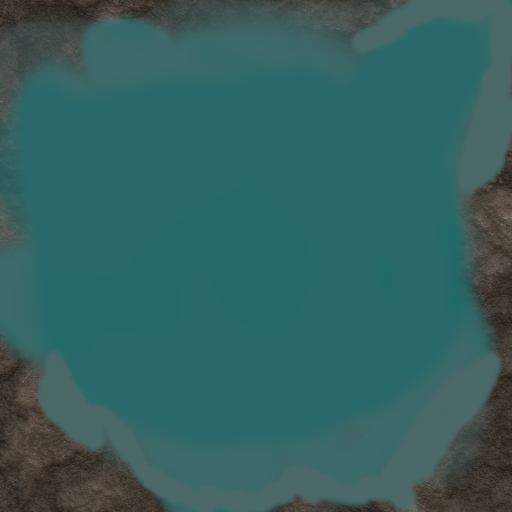
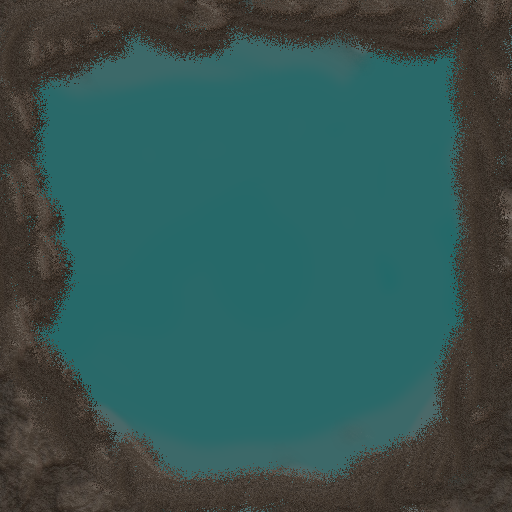
Add water obstacles and combat background

Changed region(s): [[0.0, 0.0, 1.0, 1.0], [0.1875, 0.9375, 0.2188, 0.9688]]

diff --git a/BattlePath/wwwroot/js/explore.js b/BattlePath/wwwroot/js/explore.js
@@ -2,7 +2,10 @@
     tile: null,
     playerImg: null,
     enemyImg: null,
+    exitImg: null,
+    waterImg: null,
     ready: false,
+
 
     init: function () {
         if (this.ready) return;
@@ -19,14 +22,18 @@
         this.enemyImg = new Image();
         this.enemyImg.src = 'images/goblin.png';
 
-        //exit Cave sprite
+        //exit tile sprite
         this.exitImg = new Image();
         this.exitImg.src = 'images/caveTileExit.png';
+
+        //water tile img
+        this.waterImg = new Image();
+        this.waterImg.src = 'images/caveWaterTile.png'
 
         this.ready = true;
     },
 
-    drawScene: function (playerX, playerY, enemies, exit, width, height) {
+    drawScene: function (playerX, playerY, enemies, waters, exit, width, height) {
         const canvas = document.getElementById('exploreCanvas');
         if (!canvas) return;
         const ctx = canvas.getContext('2d');
@@ -39,8 +46,22 @@
             //draw cave tiles
             for (let x = 0; x < width; x++) {
                 for (let y = 0; y < height; y++) {
+
                     ctx.drawImage(this.tile, x * cellW, y * cellH, cellW, cellH);
                 }
+            }
+
+            //draw water tiles
+            if (waters && waters.length > 0) {
+                waters.forEach(w => {
+                    const wx = w.X ?? w.x;
+                    const wy = w.Y ?? w.y;
+                    if (this.waterImg.complete) {
+                        ctx.drawImage(this.waterImg, wx * cellW, wy * cellH, cellW, cellH);
+                    } else {
+                        this.waterImg.onload = () => ctx.drawImage(this.waterImg, wx * cellW, wy * cellH, cellW, cellH);
+                    }
+                });
             }
 
             //draw exit image

diff --git a/BattlePath/wwwroot/js/combat.js b/BattlePath/wwwroot/js/combat.js
@@ -1,6 +1,7 @@
 window.combatCanvas = {
     playerImg: null,
     enemyImg: null,
+    backImg: null,
     init: function () {
         if (!this.playerImg) {
             this.playerImg = new Image();
@@ -10,14 +11,20 @@
             this.enemyImg = new Image();
             this.enemyImg.src = 'images/goblin.png'; //enemy sprite
         }
+        if (!this.backImg) {
+            this.backImg = new Image();
+            this.backImg.src = 'images/caveback.jpg';//background img
+        }
     },
 
     drawCombat: function () {
         const canvas = document.getElementById('combatCanvas');
         if (!canvas) return;
         const ctx = canvas.getContext('2d');
-        ctx.clearRect(0, 0, canvas.width, canvas.height);
 
+        if (this.backImg.complete) {
+            ctx.drawImage(this.backImg, 0, 0, canvas.width, canvas.height);
+        }
         //draw player on left
         if (this.playerImg.complete)
             ctx.drawImage(this.playerImg, 50, 100, 80, 80);

diff --git a/BattlePath/Services/GameStateService.cs b/BattlePath/Services/GameStateService.cs
@@ -17,7 +17,7 @@ namespace BattlePath.Services
 
         public List<Position> Enemies { get; set; } = new();
 
-        public List<Position> Holes { get; set; } = new();
+        public List<Position> Waters { get; set; } = new();
         public Position Exit { get; set; }
 
         private Random rng = new Random();
@@ -33,6 +33,7 @@ namespace BattlePath.Services
             PlayerX = 0;
             PlayerY = 0;
             Enemies.Clear();
+            Waters.Clear();
 
             //place enemies randomly
             while (Enemies.Count < numEnemies)
@@ -44,6 +45,18 @@ namespace BattlePath.Services
                     !Enemies.Any(e => e.X == ex && e.Y == ey))
                 {
                     Enemies.Add(new Position { X = ex, Y = ey });
+                }
+            }
+            //place water randomly
+            while (Waters.Count < 7)
+            {
+                int wx = rng.Next(GridWidth);
+                int wy = rng.Next(GridHeight);
+
+                if ((wx != PlayerX || wy != PlayerY) &&
+                    !Waters.Any(w => w.X == wx && w.Y == wy) && !Enemies.Any(e => e.X == wx && e.Y == wy))
+                {
+                    Waters.Add(new Position { X = wx, Y = wy });
                 }
             }
 
@@ -63,7 +76,7 @@ namespace BattlePath.Services
         public bool MovePlayer(int dx, int dy)
         {
             MoveEnemies();
-
+ 
             int nx = PlayerX + dx;
             int ny = PlayerY + dy;
 
@@ -94,7 +107,7 @@ namespace BattlePath.Services
                     if (e.Y < PlayerY)
                     {
                         test.X = e.X; test.Y = e.Y+ 1;
-                        if (IsEnemyHere(test) || IsExitHere(test) || IsPlayerHere(test)) return;
+                        if (IsEnemyHere(test) || IsExitHere(test) || IsPlayerHere(test) || IsWaterHere(test)) return;
                         e.Y++;
                     }
                     else if (e.Y == PlayerY) 
@@ -102,19 +115,19 @@ namespace BattlePath.Services
                         if(e.X < PlayerX)
                         {
                             test.X = e.X + 1; test.Y = e.Y;
-                            if (IsEnemyHere(test) || IsExitHere(test) || IsPlayerHere(test)) return;
+                            if (IsEnemyHere(test) || IsExitHere(test) || IsPlayerHere(test) || IsWaterHere(test)) return;
                             e.X++;
                         }else
                         {
                             test.X = e.X - 1; test.Y = e.Y;
-                            if (IsEnemyHere(test) || IsExitHere(test) || IsPlayerHere(test)) return;
+                            if (IsEnemyHere(test) || IsExitHere(test) || IsPlayerHere(test) || IsWaterHere(test)) return;
                             e.X--;
                         }
                     }
                     else
                     {
                         test.X = e.X; test.Y = e.Y - 1;
-                        if (IsEnemyHere(test) || IsExitHere(test) || IsPlayerHere(test)) return;
+                        if (IsEnemyHere(test) || IsExitHere(test) || IsPlayerHere(test) || IsWaterHere(test)) return;
                         e.Y--;
                     }
                 }
@@ -128,6 +141,8 @@ namespace BattlePath.Services
         public bool IsExitHere() => PlayerX == Exit.X && PlayerY == Exit.Y;
         public bool IsExitHere(Position e) => e.X == Exit.X && e.Y == Exit.Y;
         public bool IsPlayerHere(Position e) => e.X == PlayerX && e.Y == PlayerY;
+        public bool IsWaterHere() => Waters.Any(w => w.X == PlayerX && w.Y == PlayerY);
+        public bool IsWaterHere(Position wa) => Waters.Any(w => w.X == wa.X && w.Y == wa.Y);
         public void StartCombat()
         {
             EnemyHealth = 50;
